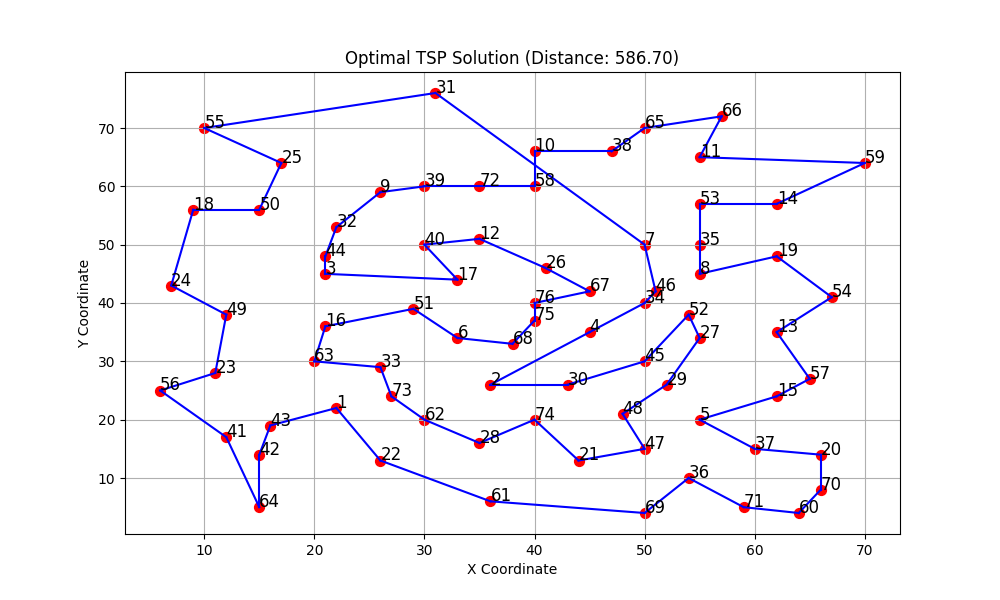
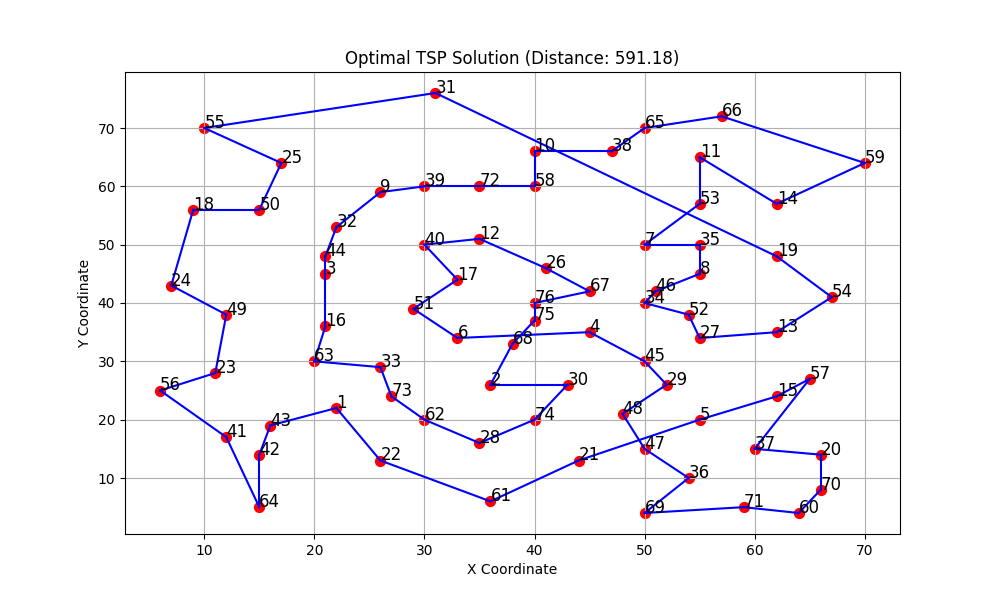
hill climbing

diff --git a/travelling-salesman/hill_climbing_vrp.py b/travelling-salesman/hill_climbing_vrp.py
@@ -3,7 +3,6 @@ import matplotlib.pyplot as plt
 import time
 import random
 import os
-from matplotlib.animation import FuncAnimation
 import imageio
 import matplotlib
 
@@ -13,7 +12,6 @@ def read_city_data(filename):
     cities = []
     with open(filename, 'r') as file:
         for line in file:
-
             if line.strip() == '' or line.strip().startswith('#'):
                 continue
             parts = line.strip().split()
@@ -29,34 +27,22 @@ def calculate_distance(city1, city2):
 
 def calculate_path_distance(path, cities):
     total_distance = 0
-    for i in range(len(path) - 1):
+    for i in range(len(path)):
         city1 = cities[path[i]]
-        city2 = cities[path[i+1]]
+        city2 = cities[path[(i+1) % len(path)]]
         total_distance += calculate_distance(city1, city2)
-
-    total_distance += calculate_distance(cities[path[-1]], cities[path[0]])
     return total_distance
 
 def generate_greedy_solution(cities):
     num_cities = len(cities)
-
     start_city = random.randint(0, num_cities - 1)
     solution = [start_city]
     unvisited = set(range(num_cities))
     unvisited.remove(start_city)
-
     current_city = start_city
 
     while unvisited:
-        min_distance = float('inf')
-        nearest_city = None
-
-        for city in unvisited:
-            dist = calculate_distance(cities[current_city], cities[city])
-            if dist < min_distance:
-                min_distance = dist
-                nearest_city = city
-
+        nearest_city = min(unvisited, key=lambda city: calculate_distance(cities[current_city], cities[city]))
         solution.append(nearest_city)
         unvisited.remove(nearest_city)
         current_city = nearest_city
@@ -71,201 +57,95 @@ def get_best_neighbor(solution, cities):
         for j in range(i+1, len(solution)):
             neighbor = solution.copy()
             neighbor[i], neighbor[j] = neighbor[j], neighbor[i]
-
             neighbor_distance = calculate_path_distance(neighbor, cities)
             if neighbor_distance < best_distance:
-                best_distance = neighbor_distance
-                best_neighbor = neighbor.copy()
-                return best_neighbor, best_distance  
+                return neighbor, neighbor_distance
 
     return best_neighbor, best_distance
 
-def create_solution_frame(cities, path, distance, iteration, time_elapsed, frame_dir="frames"):
-
-    if not os.path.exists(frame_dir):
-        os.makedirs(frame_dir)
-
-    fig, ax = plt.subplots(figsize=(10, 6))
-
-    x_coords = [cities[i][1] for i in range(len(cities))]
-    y_coords = [cities[i][2] for i in range(len(cities))]
-
-    ax.scatter(x_coords, y_coords, c='red', s=50)
-
-    for i in range(len(path)):
-        city1 = cities[path[i]]
-        city2 = cities[path[(i+1) % len(path)]]
-        ax.plot([city1[1], city2[1]], [city1[2], city2[2]], 'b-')
-
-    for i, city in enumerate(cities):
-        ax.text(city[1], city[2], str(city[0]), fontsize=12)
-
-    ax.set_title(f"TSP Solution - Iteration {iteration} (Distance: {distance:.2f}, Time: {time_elapsed:.2f}s)")
-    ax.set_xlabel('X Coordinate')
-    ax.set_ylabel('Y Coordinate')
-    ax.grid(True)
-
-    frame_path = os.path.join(frame_dir, f"frame_{iteration:05d}.png")
-    plt.savefig(frame_path)
-    plt.close(fig)
-
-    return frame_path
-
-def hill_climbing(cities, max_time_seconds, capture_frames=True, frame_interval=10):
+def hill_climbing(cities, max_time_seconds):
     start_time = time.time()
-
     current_solution = generate_greedy_solution(cities)
     current_distance = calculate_path_distance(current_solution, cities)
-
     best_solution = current_solution.copy()
     best_distance = current_distance
 
     iterations = 0
-    frame_paths = []
-
-    if capture_frames:
-        frame_path = create_solution_frame(cities, current_solution, current_distance, iterations, 0)
-        frame_paths.append(frame_path)
+    no_improve_count = 0
+    optimal_time = 0
 
     while (time.time() - start_time) < max_time_seconds:
         iterations += 1
-
         neighbor, neighbor_distance = get_best_neighbor(current_solution, cities)
 
-        if neighbor_distance >= current_distance:
-
-            new_solution = generate_greedy_solution(cities)
-            new_distance = calculate_path_distance(new_solution, cities)
-
-            current_solution = new_solution
-            current_distance = new_distance
+        if neighbor_distance < best_distance:
+            best_distance = neighbor_distance
+            best_solution = neighbor.copy()
+            no_improve_count = 0
+            optimal_time = time.time() - start_time
         else:
-            current_solution = neighbor
-            current_distance = neighbor_distance
+            no_improve_count += 1
+            if no_improve_count >= 4:
+                break
 
-            if current_distance < best_distance:
-                best_distance = current_distance
-                best_solution = current_solution.copy()
-
-                if capture_frames:
-                    elapsed_time = time.time() - start_time
-                    frame_path = create_solution_frame(cities, best_solution, best_distance, iterations, elapsed_time)
-                    frame_paths.append(frame_path)
-
-        if capture_frames and iterations % frame_interval == 0:
-            elapsed_time = time.time() - start_time
-
-            if current_solution == best_solution or iterations % (frame_interval * 5) == 0:
-                frame_path = create_solution_frame(cities, current_solution, current_distance, iterations, elapsed_time)
-                frame_paths.append(frame_path)
-
-        if iterations % 100 == 0:
-            elapsed_time = time.time() - start_time
-            print(f"Iteration {iterations}: Current distance = {current_distance:.2f}, Best distance = {best_distance:.2f}, Time elapsed: {elapsed_time:.2f}s")
+        current_solution = neighbor
 
     total_time = time.time() - start_time
-    print(f"Completed in {total_time:.2f} seconds")
-    print(f"Completed {iterations} iterations")
-    print(f"Best distance found: {best_distance:.2f}")
+    return best_solution, best_distance, total_time, optimal_time
 
-    if capture_frames:
-        frame_path = create_solution_frame(cities, best_solution, best_distance, iterations, total_time)
-        frame_paths.append(frame_path)
-
-    return best_solution, best_distance, frame_paths
-
-def run_multiple_trials(cities, num_trials=5, total_time_seconds=60):
-    best_solutions = []
-    best_distances = []
-    all_frame_paths = []  
-
-    time_per_trial = total_time_seconds / num_trials
-
-    total_start_time = time.time()
+def run_multiple_trials(cities, num_trials=5, time_per_trial=10):
+    final_costs = []
+    total_times = []
+    optimal_times = []
 
     for trial in range(num_trials):
         print(f"\nTrial {trial+1}/{num_trials}")
+        solution, distance, total_time, optimal_time = hill_climbing(cities, time_per_trial)
+        print(f"Trial {trial+1}: Best Distance = {distance:.2f}, Total Time = {total_time:.2f}s, Optimal Time = {optimal_time:.2f}s")
 
-        solution, distance, frame_paths = hill_climbing(cities, time_per_trial, capture_frames=True)
+        final_costs.append(distance)
+        total_times.append(total_time)
+        optimal_times.append(optimal_time)
 
-        best_solutions.append(solution)
-        best_distances.append(distance)
+    return final_costs, total_times, optimal_times
 
-        all_frame_paths.extend(frame_paths)
+def plot_cost_and_time(costs, optimal_times):
+    trials = np.arange(1, len(costs) + 1)
+    width = 0.35
 
-        print(f"Trial {trial+1} completed")
-        print(f"Best distance found: {distance:.2f}")
+    fig, ax1 = plt.subplots(figsize=(10, 6))
+    ax2 = ax1.twinx()
 
-    total_time = time.time() - total_start_time
-    print(f"\nTotal time for all trials: {total_time:.2f} seconds")
+    bars1 = ax1.bar(trials - width/2, costs, width, label='Cost', color='skyblue')
+    bars2 = ax2.bar(trials + width/2, optimal_times, width, label='Optimal Time (s)', color='orange')
 
-    best_idx = np.argmin(best_distances)
-    best_overall_solution = best_solutions[best_idx]
-    best_overall_distance = best_distances[best_idx]
+    for bar in bars1:
+        height = bar.get_height()
+        ax1.text(bar.get_x() + bar.get_width()/2., height, f'{height:.2f}', ha='center', va='bottom')
 
-    avg_distance = np.mean(best_distances)
-    std_distance = np.std(best_distances)
+    for bar in bars2:
+        height = bar.get_height()
+        ax2.text(bar.get_x() + bar.get_width()/2., height, f'{height:.2f}', ha='center', va='bottom')
 
-    print("\nSummary Statistics:")
-    print(f"Average Distance: {avg_distance:.2f} ± {std_distance:.2f}")
-    print(f"Best Solution Distance: {best_overall_distance:.2f}")
+    ax1.set_xlabel('Trial')
+    ax1.set_ylabel('Cost')
+    ax2.set_ylabel('Optimal Time (s)')
+    ax1.set_title('TSP Hill Climbing: Cost and Optimal Time per Trial')
+    fig.legend(loc='upper right')
+    plt.tight_layout()
+    plt.savefig("hill_climbing_cost_vs_time.png")
+    plt.close()
 
-    create_gif(all_frame_paths, "tsp_combined_animation.gif", fps=3)
-
-    return best_overall_solution, best_overall_distance, all_frame_paths
-
-def create_gif(frame_paths, filename="tsp_animation.gif", fps=5):
-    print(f"Creating GIF with {len(frame_paths)} frames...")
-
-    images = []
-    for frame_path in frame_paths:
-        images.append(imageio.imread(frame_path))
-
-    imageio.mimsave(filename, images, fps=fps)
-    print(f"GIF saved as {filename}")
-
-if __name__ == "__main__":
-
-    filename = "testcase.txt"
+if __name__ == '__main__':
+    filename = 'testcase.txt'
     if not os.path.exists(filename):
         print(f"Error: {filename} not found")
         exit(1)
 
     cities = read_city_data(filename)
-    print(f"Loaded {len(cities)} cities from {filename}")
+    print(f"Loaded {len(cities)} cities")
 
-    num_trials = 5
-    total_time_seconds = 60  
+    final_costs, total_times, optimal_times = run_multiple_trials(cities, num_trials=5, time_per_trial=30)
 
-    best_solution, best_distance, frame_paths = run_multiple_trials(
-        cities, num_trials, total_time_seconds
-    )
-
-    plt.figure(figsize=(10, 6))
-
-    x_coords = [cities[i][1] for i in range(len(cities))]
-    y_coords = [cities[i][2] for i in range(len(cities))]
-
-    plt.scatter(x_coords, y_coords, c='red', s=50)
-
-    for i in range(len(best_solution)):
-        city1 = cities[best_solution[i]]
-        city2 = cities[best_solution[(i+1) % len(best_solution)]]
-        plt.plot([city1[1], city2[1]], [city1[2], city2[2]], 'b-')
-
-    for i, city in enumerate(cities):
-        plt.text(city[1], city[2], str(city[0]), fontsize=12)
-
-    plt.title(f"Optimal TSP Solution (Distance: {best_distance:.2f})")
-    plt.xlabel('X Coordinate')
-    plt.ylabel('Y Coordinate')
-    plt.grid(True)
-    plt.savefig("tsp_optimal_solution.png")
-    plt.close()
-
-    if frame_paths:
-        create_gif(frame_paths, "tsp_animation.gif", fps=3)
-
-    print("\nOutput files:")
-    print("- tsp_optimal_solution.png")
-    print("- tsp_animation.gif")
+    plot_cost_and_time(final_costs, optimal_times)
+    print("\nGraph saved as hill_climbing_cost_vs_time.png")
